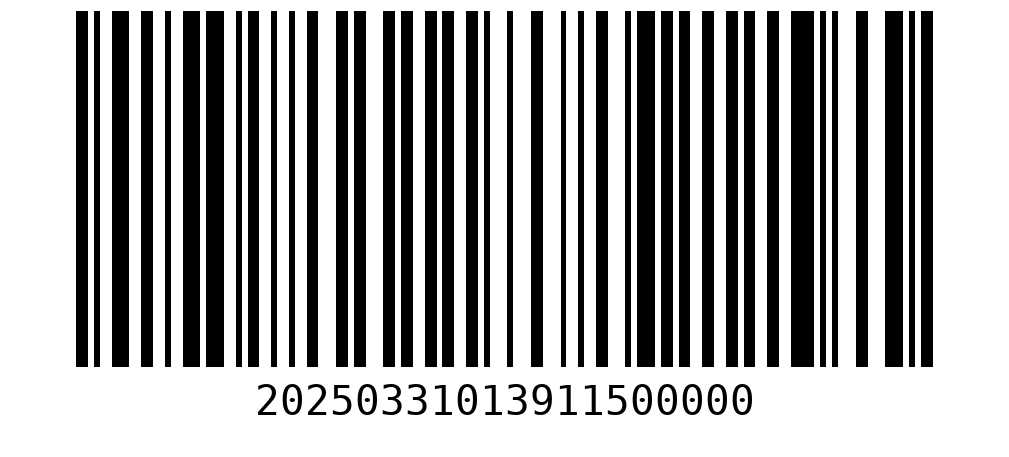
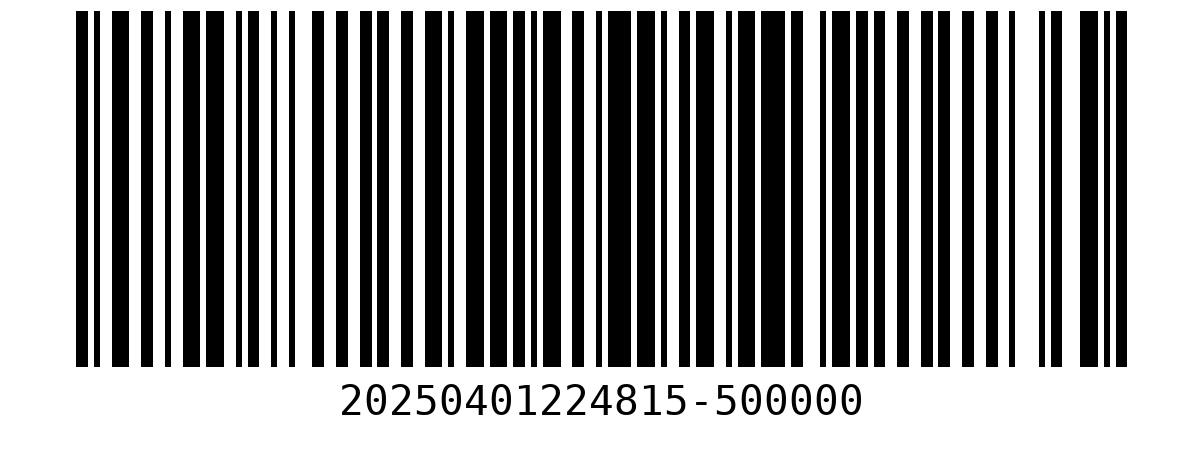
바코드 생성 코드 구분자 추가

diff --git a/gmj/starbucks_parking_payment/barcode_generator.py b/gmj/starbucks_parking_payment/barcode_generator.py
@@ -16,7 +16,7 @@ class BarcodeGenerator:
     def create_bar_code(self):
         """ 날짜, 시간, 무료 금액 정보를 포함한 바코드 생성 """
         now = datetime.now().strftime("%Y%m%d%H%M%S")
-        bar_data = f"{now}{self.free_amount}"
+        bar_data = f"{now}-{self.free_amount}"
 
         # 바코드 생성 (Code128 바코드 형식 사용)
         code128 = barcode.get_barcode_class('code128')
